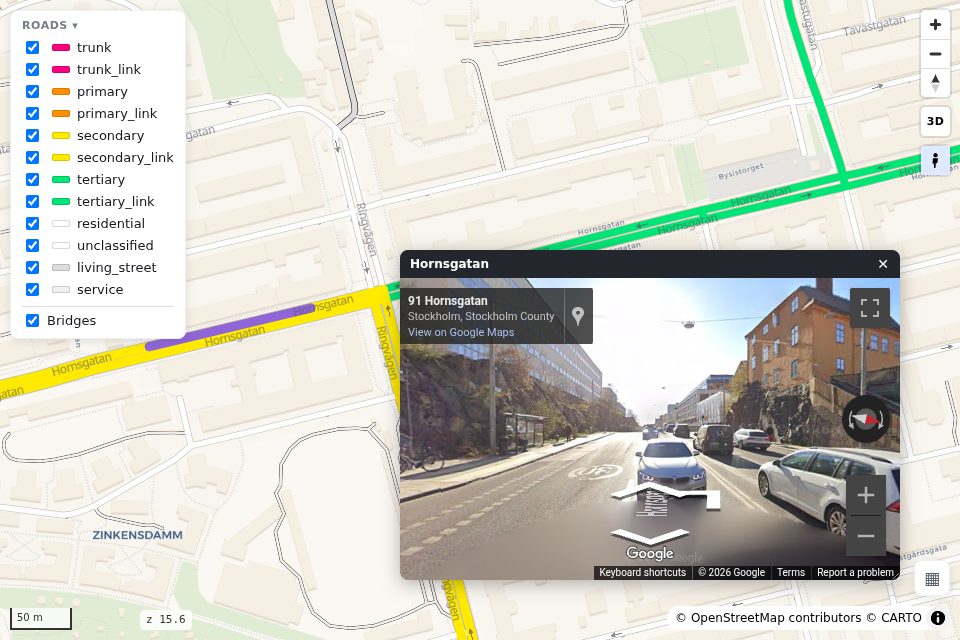
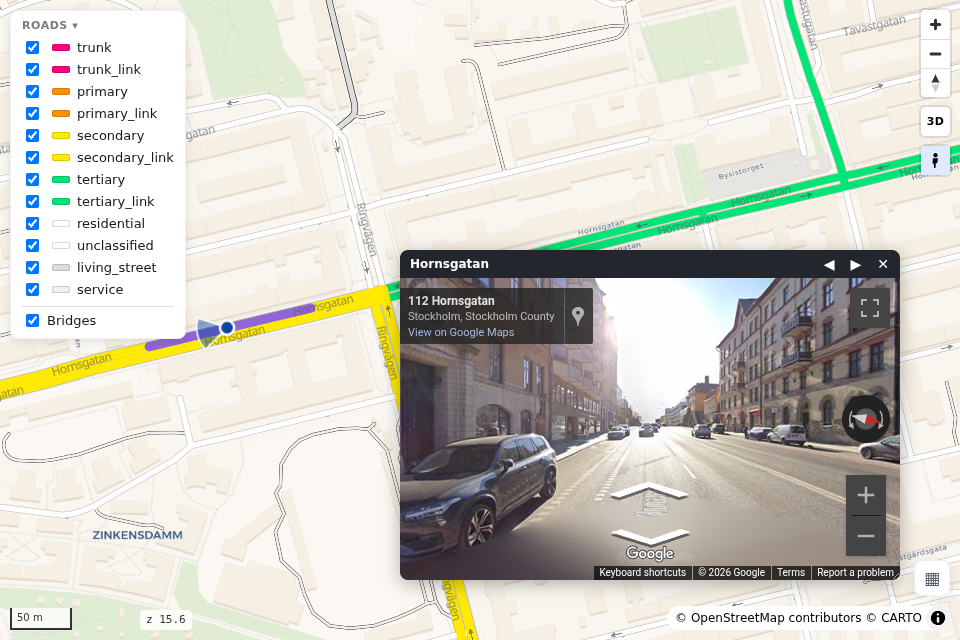
street view: a map marker where it stands and which way it looks; step buttons along the edge
The position is {edge, metres along it}: _svMeasure/_svAt replace _svSnap, and the marker, the
URL and rsStreetViewStep(m) (event rs:streetviewmove) all read it. The window and the
side-by-side page get ◀ ▶ (15 m) and show the marker while Street View is on screen.
rsSelect now anchors at the middle of the edge's length, not its middle vertex (a two-point
edge's end), inline and tiled. Hero and gallery Street View shots rebuilt with the marker.

Changed region(s): [[0.4062, 0.4062, 0.9375, 0.9062], [0.1875, 0.5, 0.25, 0.5625]]

diff --git a/src/roadstyle/static/web_template.html b/src/roadstyle/static/web_template.html
@@ -127,12 +127,14 @@ box-shadow:0 2px 10px rgba(0,0,0,.10);border:1px solid rgba(0,0,0,.06);font:13px
   cursor:move;user-select:none;touch-action:none}
 .rs-svw-t{flex:1;font-weight:600;overflow:hidden;white-space:nowrap;text-overflow:ellipsis}
 .rs-svw-bar button{border:0;background:none;color:#fff;font:14px/1 system-ui;cursor:pointer;padding:2px 5px}
+.rs-svw-bar button:disabled{opacity:.3;cursor:default}
 .rs-svw iframe{flex:1;width:100%;border:0;background:#eee}
 .rs-svw-msg{flex:1;display:flex;flex-direction:column;align-items:center;justify-content:center;gap:6px;
   padding:14px;text-align:center;color:#666;background:#f4f4f4}
 .rs-svw-msg code{background:#e6e6e6;padding:1px 4px;border-radius:3px;color:#333}
 .rs-svw.rs-drag iframe{pointer-events:none}
 .maplibregl-ctrl-group button.rs-on{background:#dfe9ff}
+.rs-svm{pointer-events:none}
 @media (max-width:700px){.rs-svw{left:0!important;right:0!important;top:auto!important;bottom:0!important;
   width:auto!important;height:45%!important;border-radius:10px 10px 0 0;resize:none}}
 </style></head><body>
@@ -256,6 +258,8 @@ if(_svWindow){
   const save=()=>{ try{ localStorage.setItem(KEY, JSON.stringify(st)); }catch(e){} };
   const w=document.createElement("div"); w.className="rs-svw"; w.hidden=true;
   w.innerHTML='<div class="rs-svw-bar"><span class="rs-svw-t">Street View</span>'+
+    '<button type="button" data-step="-15" title="Back 15 m along the road">\u25c0</button>'+
+    '<button type="button" data-step="15" title="Forward 15 m along the road">\u25b6</button>'+
     '<button type="button" title="Close">\u2715</button></div>'+
     '<div class="rs-svw-msg">Click a road to see it in Street View.</div>'+
     '<iframe title="Google Street View" allowfullscreen hidden></iframe>';
@@ -291,12 +295,19 @@ if(_svWindow){
     if(fr.getAttribute("src")!==src) fr.src=src;
     fr.hidden=false; msg.hidden=true;
   };
+  const steps=[...bar.querySelectorAll("button[data-step]")];
+  const ends=(a, z)=>{ steps[0].disabled=!!a; steps[1].disabled=!!z; };
+  steps.forEach(b=>{ b.onclick=()=>rsStreetViewStep(+b.dataset.step); });
   document.addEventListener("rs:select", e=>{
     const d=e.detail; if(d.overlay) return;  // roads only
-    const p=d.properties||{}; last={name:p.name||p.highway||"Unnamed road", url:d.streetView}; show();
+    const p=d.properties||{}; last={name:p.name||p.highway||"Unnamed road", url:d.streetView};
+    ends(false, false); show();
+  });
+  document.addEventListener("rs:streetviewmove", e=>{   // the step buttons: same road, new spot
+    if(!last) return; last.url=e.detail.streetView; ends(e.detail.atStart, e.detail.atEnd); show();
   });
   rsSetStreetView=function(on){
-    w.hidden=!on; if(on && innerWidth>700) place();
+    w.hidden=!on; if(on && innerWidth>700) place(); rsSetStreetViewMarker(!!on);
     st.open=!!on; save(); if(btn) btn.classList.toggle("rs-on", !!on); show();
     document.dispatchEvent(new CustomEvent("rs:streetviewchange", {detail:{open:!!on}}));
   };
@@ -835,36 +846,74 @@ const _popupFields = __ROAD_POPUP_FIELDS__;   // curated field list, or null => 
 // directed, so a road's two directions get the same spot and opposite headings. A plain maps URL,
 // no API key. The heading is the clicked edge's segment nearest the point; none without geometry.
 const _streetView = __STREET_VIEW__;
-// a two-way road's direction stands in the middle of its own lane: this far (metres) right of
-// the centre line, the side its twin is drawn on (MapLibre's line-offset: right-hand traffic)
-const _SV_LANE_M = 2.5;
-function _svSnap(f, ll){
-  // the point on the clicked edge's own geometry nearest the click, and that segment's heading.
-  // The drawn lanes sit offset from the centre line by a pixel amount (tens of metres when zoomed
-  // out), so the raw click point can land nearer an indoor photo than the road's Street View
-  // imagery; a two-way edge then moves a fixed _SV_LANE_M into its own lane.
-  const g = f && f.geometry;
-  const lines = !g ? [] : g.type==="LineString" ? [g.coordinates] :
-                g.type==="MultiLineString" ? g.coordinates : [];
-  const k = Math.cos(ll.lat*Math.PI/180); let best=null, bd=Infinity;
-  lines.forEach(cs=>{ for(let i=0;i+1<cs.length;i++){
-    const dx=(cs[i+1][0]-cs[i][0])*k, dy=cs[i+1][1]-cs[i][1];
-    const px=(ll.lng-cs[i][0])*k, py=ll.lat-cs[i][1];
-    const t=Math.max(0, Math.min(1, (px*dx+py*dy)/((dx*dx+dy*dy)||1)));
-    const d=(px-t*dx)**2+(py-t*dy)**2;
-    if(d<bd){ bd=d; best={h:(Math.atan2(dx,dy)*180/Math.PI+360)%360, dx:dx, dy:dy,
-      lng:cs[i][0]+t*(cs[i+1][0]-cs[i][0]), lat:cs[i][1]+t*(cs[i+1][1]-cs[i][1])}; } } });
-  if(best && f.properties && f.properties.__rs_twoway){   // (dy,-dx) points right of travel
-    const n=Math.hypot(best.dx, best.dy)||1, m=_SV_LANE_M/110540;   // metres -> degrees of latitude
-    best.lng += best.dy/n*m/k; best.lat -= best.dx/n*m; }
+// Street View stands at a spot ON the clicked edge: its own geometry (the road's centre line), the
+// spot nearest the click, looking along the edge. The drawn lanes sit offset from that line by a
+// pixel amount (tens of metres when zoomed out), so the raw click could land nearer an indoor
+// photo than the road's imagery. A two-way road's direction then steps _SV_LANE_M to its right,
+// into the middle of its own lane (MapLibre's line-offset draws it there: right-hand traffic).
+// The position is kept as {edge, metres along it}: the map marker, the step buttons
+// (rsStreetViewStep) and the URL all read it, so they cannot disagree.
+const _SV_LANE_M = 2.5, _SV_R = 110540;          // metres per degree of latitude
+let _svPos = null, _svMk = null, _svMarkOn = false;
+function _svLine(f){ const g=f && f.geometry;
+  return !g ? [] : g.type==="LineString" ? g.coordinates : g.type==="MultiLineString" ? [].concat(...g.coordinates) : []; }
+function _svFeat(f){ const F=_feats();       // the edge's full geometry (a picked one may be tile-clipped)
+  return (f && f.id!=null && srcOf(f)==="roads" && F && F[f.id]) || f; }
+function _svDist(cs){ const k=Math.cos(cs[0][1]*Math.PI/180), d=[0];
+  for(let i=1;i<cs.length;i++) d.push(d[i-1]+Math.hypot((cs[i][0]-cs[i-1][0])*k*_SV_R, (cs[i][1]-cs[i-1][1])*_SV_R));
+  return d; }
+function _svMeasure(f, ll){                     // metres along f to the spot nearest ll
+  const cs=_svLine(f); if(cs.length<2) return null;
+  const k=Math.cos(ll.lat*Math.PI/180), d=_svDist(cs); let best=0, bd=Infinity;
+  for(let i=0;i+1<cs.length;i++){
+    const dx=(cs[i+1][0]-cs[i][0])*k, dy=cs[i+1][1]-cs[i][1], px=(ll.lng-cs[i][0])*k, py=ll.lat-cs[i][1];
+    const t=Math.max(0, Math.min(1, (px*dx+py*dy)/((dx*dx+dy*dy)||1))), q=(px-t*dx)**2+(py-t*dy)**2;
+    if(q<bd){ bd=q; best=d[i]+t*(d[i+1]-d[i]); } }
   return best; }
-// the URL on its own: also sent as `detail.streetView` on rs:select, for host pages whose own
-// panel replaces the popup (road_popup=False)
+function _svAt(f, m){                           // the spot m metres along f: {lng, lat, h, m, len}
+  const cs=_svLine(f); if(cs.length<2) return null;
+  const d=_svDist(cs), len=d[d.length-1]; m=Math.max(0, Math.min(len, m));
+  let i=0; while(i<cs.length-2 && d[i+1]<m) i++;
+  const t=(m-d[i])/((d[i+1]-d[i])||1), k=Math.cos(cs[i][1]*Math.PI/180);
+  const dx=(cs[i+1][0]-cs[i][0])*k, dy=cs[i+1][1]-cs[i][1];
+  const p={lng:cs[i][0]+t*(cs[i+1][0]-cs[i][0]), lat:cs[i][1]+t*(cs[i+1][1]-cs[i][1]),
+           h:(Math.atan2(dx,dy)*180/Math.PI+360)%360, m:m, len:len};
+  if(f.properties && f.properties.__rs_twoway){ // (dy,-dx) points right of travel
+    const n=Math.hypot(dx, dy)||1, o=_SV_LANE_M/_SV_R; p.lng += dy/n*o/k; p.lat -= dx/n*o; }
+  return p; }
+function _svUrlOf(p){ return 'https://www.google.com/maps/@?api=1&map_action=pano&viewpoint='+
+  p.lat.toFixed(6)+','+p.lng.toFixed(6)+(p.h==null ? '' : '&heading='+Math.round(p.h)); }
 function _svUrl(ll, f){
   if(!_streetView || !ll) return null;
-  const sn = _svSnap(f, ll), p = sn || ll;
-  return 'https://www.google.com/maps/@?api=1&map_action=pano&viewpoint='+
-    p.lat.toFixed(6)+','+p.lng.toFixed(6)+(sn ? '&heading='+Math.round(sn.h) : ''); }
+  f=_svFeat(f); const m=_svMeasure(f, ll), p=m==null ? null : _svAt(f, m);
+  return _svUrlOf(p || ll); }
+// a selection: remember the spot (for the marker and the step buttons) and return its URL
+function _svPick(ll, f, id){
+  f=_svFeat(f); const m=(_streetView && ll) ? _svMeasure(f, ll) : null;
+  _svPos = m==null ? null : {f:f, m:m, id:id}; _svMark();
+  return _svUrl(ll, f); }
+// the map marker: a dot where Street View stands and a cone the way it looks. Shown while a
+// Street View is on screen (the window open, or the side-by-side page); rsSetStreetViewMarker(on)
+function _svMark(){
+  const p = _svMarkOn && _svPos ? _svAt(_svPos.f, _svPos.m) : null;
+  if(!p){ if(_svMk){ _svMk.remove(); _svMk=null; } return; }
+  if(!_svMk){ const el=document.createElement("div"); el.className="rs-svm";
+    el.innerHTML='<svg width="64" height="64" viewBox="-32 -32 64 64">'+
+      '<path d="M0 0 L-16 -26 A31 31 0 0 1 16 -26 Z" fill="rgba(13,71,161,.45)" stroke="#fff" stroke-width="1.5"/>'+
+      '<circle r="7" fill="#0d47a1" stroke="#fff" stroke-width="2.5"/></svg>';
+    _svMk=new maplibregl.Marker({element:el, rotationAlignment:"map", pitchAlignment:"map"}); }
+  _svMk.setLngLat([p.lng, p.lat]).setRotation(p.h).addTo(map); }
+function rsSetStreetViewMarker(on){ _svMarkOn=!!on; _svMark(); }
+// move the Street View spot m metres along its edge (negative: back), still looking along it;
+// stops at the edge's ends. Fires rs:streetviewmove {id, streetView, atStart, atEnd}.
+function rsStreetViewStep(m){
+  if(!_svPos) return null;
+  const p=_svAt(_svPos.f, _svPos.m+m); if(!p) return null;
+  _svPos.m=p.m; _svMark(); const url=_svUrlOf(p);
+  document.dispatchEvent(new CustomEvent("rs:streetviewmove",
+    {detail:{id:_svPos.id, streetView:url, atStart:p.m<=0.01, atEnd:p.m>=p.len-0.01}}));
+  return url; }
+window.rsSetStreetViewMarker = rsSetStreetViewMarker; window.rsStreetViewStep = rsStreetViewStep;
 function _sv(ll, f){
   const u = _svUrl(ll, f);
   if(u && _svWindow)                          // the window mode opens its window, not a new tab
@@ -883,10 +932,11 @@ function rsDeselect(){
 window.rsDeselect = rsDeselect;
 // programmatic selection by id (same id space as rsQuery / rs:select): highlight + popup/panel
 // + rs:select, exactly like a click. The floating popup anchors at the edge's midpoint.
-function _midOf(g){ if(!g) return null;
-  const cs = g.type==="LineString" ? g.coordinates :
-             g.type==="MultiLineString" ? g.coordinates[0] : null;
-  return cs && cs.length ? cs[Math.floor(cs.length/2)] : null; }
+function _midOf(g){                         // the middle of the length (a middle VERTEX can be an end)
+  const cs=_svLine({geometry:g}); if(cs.length<2) return cs[0]||null;
+  const d=_svDist(cs), h=d[d.length-1]/2; let i=0; while(i<cs.length-2 && d[i+1]<h) i++;
+  const t=(h-d[i])/((d[i+1]-d[i])||1);
+  return [cs[i][0]+t*(cs[i+1][0]-cs[i][0]), cs[i][1]+t*(cs[i+1][1]-cs[i][1])]; }
 function rsSelect(id){
   const s=_side();
   const props = s ? s.props[id] : (_feats()[id]||{}).properties;
@@ -904,7 +954,7 @@ function rsSelect(id){
   let ovs=[]; if(c){ try{ ovs=_ovAt(map.project({lng:c[0], lat:c[1]})); }catch(err){} }
   const cll = c ? {lng:c[0], lat:c[1]} : null;
   document.dispatchEvent(new CustomEvent("rs:select",
-    {detail:{id:id, layer:null, properties:props || {}, overlays:ovs, streetView:_svUrl(cll, _feats()[id])}}));
+    {detail:{id:id, layer:null, properties:props || {}, overlays:ovs, streetView:_svPick(cll, _feats()[id], id)}}));
   const sv = _sv(cll, _feats()[id]);
   if(__ROAD_POPUP__){
     if(_popupMode === "panel"){ rsInfoShow(_rrows(props||{}, _popupFields) + sv + _ovSections(ovs)); }
@@ -944,7 +994,7 @@ map.on("click", e=>{
   // structured click-data for host pages / dashboards (fires in every popup mode, incl. False)
   document.dispatchEvent(new CustomEvent("rs:select",
     {detail:{id:f.id, layer:f.layer && f.layer.id, properties:props, overlays:ovs,
-             streetView:_svUrl(e.lngLat, f)}}));
+             streetView:_svPick(e.lngLat, f, f.id)}}));
   const sv = _sv(e.lngLat, f);
   if(__ROAD_POPUP__){
     if(_popupMode === "panel"){ rsInfoShow(_rrows(props, _popupFields) + sv + _ovSections(ovs)); }

diff --git a/src/roadstyle/templates/street_view.html b/src/roadstyle/templates/street_view.html
@@ -8,7 +8,10 @@
         flex-direction: column; background: #fff; border-left: 1px solid #ddd;
         font: 13px/1.4 system-ui, -apple-system, "Segoe UI", sans-serif; color: #222; }
   #sv h2 { margin: 0; padding: 10px 12px 0; font-size: 15px; }
-  #sv-road { padding: 2px 12px 8px; color: #555; }
+  #sv-road-row { display: flex; align-items: center; gap: 4px; padding: 2px 12px 8px; }
+  #sv-road { flex: 1; color: #555; }
+  .sv-step { border: 1px solid #ccc; background: #fff; border-radius: 4px; padding: 2px 8px; cursor: pointer; }
+  .sv-step:disabled { opacity: .35; cursor: default; }
   #sv [hidden] { display: none !important; }
   /* the divider: drag it to share the width between the map and Street View */
   #sv-drag { position: fixed; top: 0; bottom: 0; right: var(--sv-w); width: 10px; margin-right: -5px;
@@ -36,7 +39,9 @@
 <div id="sv-drag" title="Drag to resize"></div>
 <div id="sv">
   <h2>Roads and Street View</h2>
-  <div id="sv-road">Click a road to see it in Street View.</div>
+  <div id="sv-road-row"><span id="sv-road">Click a road to see it in Street View.</span>
+    <button type="button" class="sv-step" data-step="-15" title="Back 15 m along the road" disabled>&#9664;</button>
+    <button type="button" class="sv-step" data-step="15" title="Forward 15 m along the road" disabled>&#9654;</button></div>
   <div id="sv-empty">Street View opens here, looking the way the clicked road runs.</div>
   <iframe id="sv-frame" title="Google Street View" hidden allowfullscreen></iframe>
 </div>
@@ -61,10 +66,20 @@
   };
   if (fromDisk) empty.innerHTML = serveHelp();
 
+  const steps = [...document.querySelectorAll(".sv-step")];
+  steps.forEach(b => { b.onclick = () => rsStreetViewStep(+b.dataset.step); });
+  const ends = (a, z) => { steps[0].disabled = !!a; steps[1].disabled = !!z; };
+  rsSetStreetViewMarker(true);                           // the map marks where Street View stands
+  document.addEventListener("rs:streetviewmove", e => show(e.detail.streetView, e.detail));
   document.addEventListener("rs:select", function (e) {
     const d = e.detail, p = d.properties || {};
     if (d.overlay) return;                               // roads only (overlay clicks set .overlay)
     road.textContent = p.name || p.highway || "Unnamed road";
+    show(d.streetView, {atStart: false, atEnd: false});
+  });
+  function show(url, at) {
+    ends(!url || at.atStart, !url || at.atEnd);
+    const d = {streetView: url};
     if (!d.streetView) {                                 // street_view=False, or no geometry
       frame.hidden = true; empty.hidden = false;
       empty.textContent = "No Street View for this road.";
@@ -80,7 +95,7 @@
     const [lat, lng] = u.searchParams.get("viewpoint").split(",");
     frame.src = embed(lat, lng, u.searchParams.get("heading") || 0);
     frame.hidden = false; empty.hidden = true;
-  });
+  }
 
   // the divider (resizable=False removes it): the panel width follows the pointer, 20%..80% of
   // the window, and is remembered in this browser

diff --git a/tests/test_render_web.py b/tests/test_render_web.py
@@ -742,9 +742,12 @@ def test_web_street_view_link():
     assert "const _streetView = false;" in off
     assert "__STREET_VIEW__" not in on + off
     # host pages whose own panel replaces the popup get the same URL on the click event
-    assert on.count("streetView:_svUrl(") == 2
+    assert on.count("streetView:_svPick(") == 2
     # the point goes onto the edge's own geometry (the road centre line), not the raw click on a
-    # drawn lane, which can sit nearer an indoor photo than the road's Street View imagery
-    assert "const sn = _svSnap(f, ll), p = sn || ll;" in on
+    # drawn lane, which can sit nearer an indoor photo than the road's Street View imagery...
+    assert "const m=_svMeasure(f, ll), p=m==null ? null : _svAt(f, m);" in on
     # ...and a two-way edge moves into its own lane, so the two directions stand apart
-    assert "const _SV_LANE_M = 2.5;" in on and "f.properties.__rs_twoway" in on
+    assert "const _SV_LANE_M = 2.5" in on and "f.properties.__rs_twoway" in on
+    # a map marker shows where Street View stands; the step buttons walk along the edge
+    assert "window.rsStreetViewStep = rsStreetViewStep;" in on and '"rs:streetviewmove"' in on
+    assert "rsSetStreetViewMarker(!!on);" in on and 'data-step="15"' in on

diff --git a/src/roadstyle/tiles.py b/src/roadstyle/tiles.py
@@ -178,7 +178,10 @@ def build_pmtiles(fc: dict, *, class_col: str, keep: set, minzoom_table: dict | 
 
 def sidecar(fc: dict) -> dict:
     """The per-edge lookup the page keeps inline (gzipped): full properties for rsQuery /
-    popups, a midpoint vertex for the floating popup anchor, and a bbox for rsFocus."""
+    popups, the edge's midpoint (by length: rsSelect's popup anchor and Street View spot), and a
+    bbox for rsFocus."""
+    from shapely.geometry import LineString
+
     props, mids, bboxes = [], [], []
     for ft in fc.get("features", []):
         props.append(ft.get("properties") or {})
@@ -186,7 +189,9 @@ def sidecar(fc: dict) -> dict:
         cs = g.get("coordinates") or []
         if g.get("type") == "MultiLineString" and cs:
             cs = cs[0]
-        mids.append(list(cs[len(cs) // 2]) if cs else None)
+        # the middle of the length, not the middle vertex: a two-point edge's middle vertex is its end
+        mids.append(list(LineString(cs).interpolate(0.5, normalized=True).coords[0])
+                    if len(cs) >= 2 else (list(cs[0]) if cs else None))
         xs = [c[0] for c in (cs or [])]
         ys = [c[1] for c in (cs or [])]
         bboxes.append([min(xs), min(ys), max(xs), max(ys)] if xs else None)

diff --git a/tests/test_tiles.py b/tests/test_tiles.py
@@ -146,3 +146,14 @@ def test_render_without_tiles_is_unchanged():
     i = html.index("const style = ") + len("const style = ")
     style = json.JSONDecoder().raw_decode(html, i)[0]
     assert style["sources"]["roads"]["type"] == "geojson"
+
+
+def test_sidecar_mid_is_half_the_length():
+    """rsSelect anchors its popup and Street View spot at `mids`: the middle of the length, not
+    the middle vertex (a two-point edge's middle vertex is its END, so stepping forward from it
+    along the edge had nowhere to go)."""
+    from roadstyle.tiles import sidecar
+    fc = {"type": "FeatureCollection", "features": [
+        {"type": "Feature", "properties": {}, "geometry": {"type": "LineString",
+                                                           "coordinates": [[18.0, 59.3], [18.02, 59.3]]}}]}
+    assert sidecar(fc)["mids"][0] == pytest.approx([18.01, 59.3])

diff --git a/docs/web-backend.md b/docs/web-backend.md
@@ -100,6 +100,8 @@ dispatches a CustomEvent on `document`:
 | `rsSelect(id)` / `rsDeselect()` | select one edge exactly like a click (glow + popup/panel; a 3D bridge glows as that edge's own deck ribbon) / clear | `rs:select` / `rs:deselect` |
 | `rsSetView3D(on)` | tilt to the settings' `camera.pitch_3d` / back to flat north-up | `rs:viewchange` |
 | `rsSetStreetView(on)` | open / close the Street View window (the default `street_view="window"`; a no-op otherwise) | `rs:streetviewchange` |
+| `rsStreetViewStep(m)` | move the Street View spot `m` metres along its edge (negative: back), still looking along it; stops at the ends. Returns the new Street View URL | `rs:streetviewmove` (`detail.streetView`, `atStart`, `atEnd`) |
+| `rsSetStreetViewMarker(on)` | show / hide the map marker of the Street View spot (the window and the side-by-side page drive it) | — |
 | `rsSetBridges(on)` | show / hide every bridge (elevated road and its 3D deck ribbons); ANDs with the class and id filters — the filter panel's *Bridges* row | `rs:filterchange` (`detail.bridges`) |
 | `rsPanelShow(on)` | panel mode only: hide / unhide the docked side panel (the map takes the space; a tab brings it back) | — |
 
@@ -147,7 +149,10 @@ custom sidebar can offer the same search (both `ui/` templates do).
 Every map has a **Street View** button (under 3D). It opens a floating window over the map that
 shows Google Street View of the road the user clicks (or `rsSelect`s), and follows each new click.
 Drag its title bar to move it, its corner to resize it; the popup's *Street View* link opens it
-too. Nothing is loaded from Google while it is closed. Whether it was open, where, and how big are
+too. While it is open, a **marker** on the map (a dot and a cone) shows where Street View stands
+and which way it looks, and the window's **◀ ▶** buttons walk 15 m back or forward along the
+edge, so a road can be followed without clicking the map again (they stop at the edge's ends).
+Nothing is loaded from Google while it is closed. Whether it was open, where, and how big are
 remembered in the viewer's browser. It opens at the map's bottom-right corner, so it respects any
 panel the page adds; on a phone it is a sheet at the bottom. `rsSetStreetView(true)` opens it from
 your own UI. It needs the page served over http(s) (see the note below). No API key.
@@ -194,6 +199,7 @@ roadstyle edges.gpkg --page street-view --panel-width 60 --no-resize
 <iframe src="../maps/street_view.html" loading="lazy" title="The map and Google Street View side by side"
         style="width:100%;height:520px;border:0;border-radius:10px;box-shadow:0 2px 12px rgba(0,0,0,.18)"></iframe>
 
+The map marks the Street View spot and ◀ ▶ step along the road, as in the window.
 `panel_width` is Street View's share of the width in percent (20-80, default 42). With
 `resizable=True` (the default) the viewer can drag the divider, and the page remembers their
 width in their browser. On a phone, Street View sits under the map. Every `render_edges` keyword

diff --git a/skills/roadstyle/SKILL.md b/skills/roadstyle/SKILL.md
@@ -58,8 +58,9 @@ m.save("map.html")                        # m.html is the page as a string
   Street View beside the map, following the clicked road; `panel_width=42`, `resizable=True`)
   take the same keywords. CLI: `roadstyle edges.gpkg --page street-view`. Every map has a Street
   View button by default (`street_view="window"`): a floating, draggable, resizable window that
-  follows the clicked road (`rsSetStreetView(on)`); `street_view=True` = a plain popup link,
-  `False` = none. Street View loads only
+  follows the clicked road (`rsSetStreetView(on)`), a map marker (dot + cone) where it stands,
+  and ◀ ▶ buttons stepping 15 m along the edge (`rsStreetViewStep(m)`, event
+  `rs:streetviewmove`); `street_view=True` = a plain popup link, `False` = none. Street View loads only
   when the page is served (http/https), not opened from disk: `python -m http.server`.
 - Colours, widths, casing and camera defaults are settings, not keywords:
   `rs.render_edges(..., settings={"config": {"labels": {"color": "#888"}}})`.

diff --git a/CHANGELOG.md b/CHANGELOG.md
@@ -6,6 +6,17 @@ All notable changes to **roadstyle** are documented here. The format is based on
 
 ## [Unreleased]
 
+### Added
+- **Street View marker and steps.** While Street View is shown (the window, or the side-by-side
+  page), a marker on the map (a dot and a viewing cone) shows where it stands and which way it
+  looks. **◀ ▶** buttons walk 15 m back or forward along the edge, so a road can be followed
+  without clicking the map again. JS: `rsStreetViewStep(m)` (event `rs:streetviewmove`),
+  `rsSetStreetViewMarker(on)`.
+
+### Fixed
+- `rsSelect(id)` anchored its popup (and now the Street View spot) at the edge's middle VERTEX,
+  which on a two-point edge is its end; it now uses the middle of the length (inline and tiled).
+
 ## [0.6.0] — 2026-09-26
 
 ### Changed
